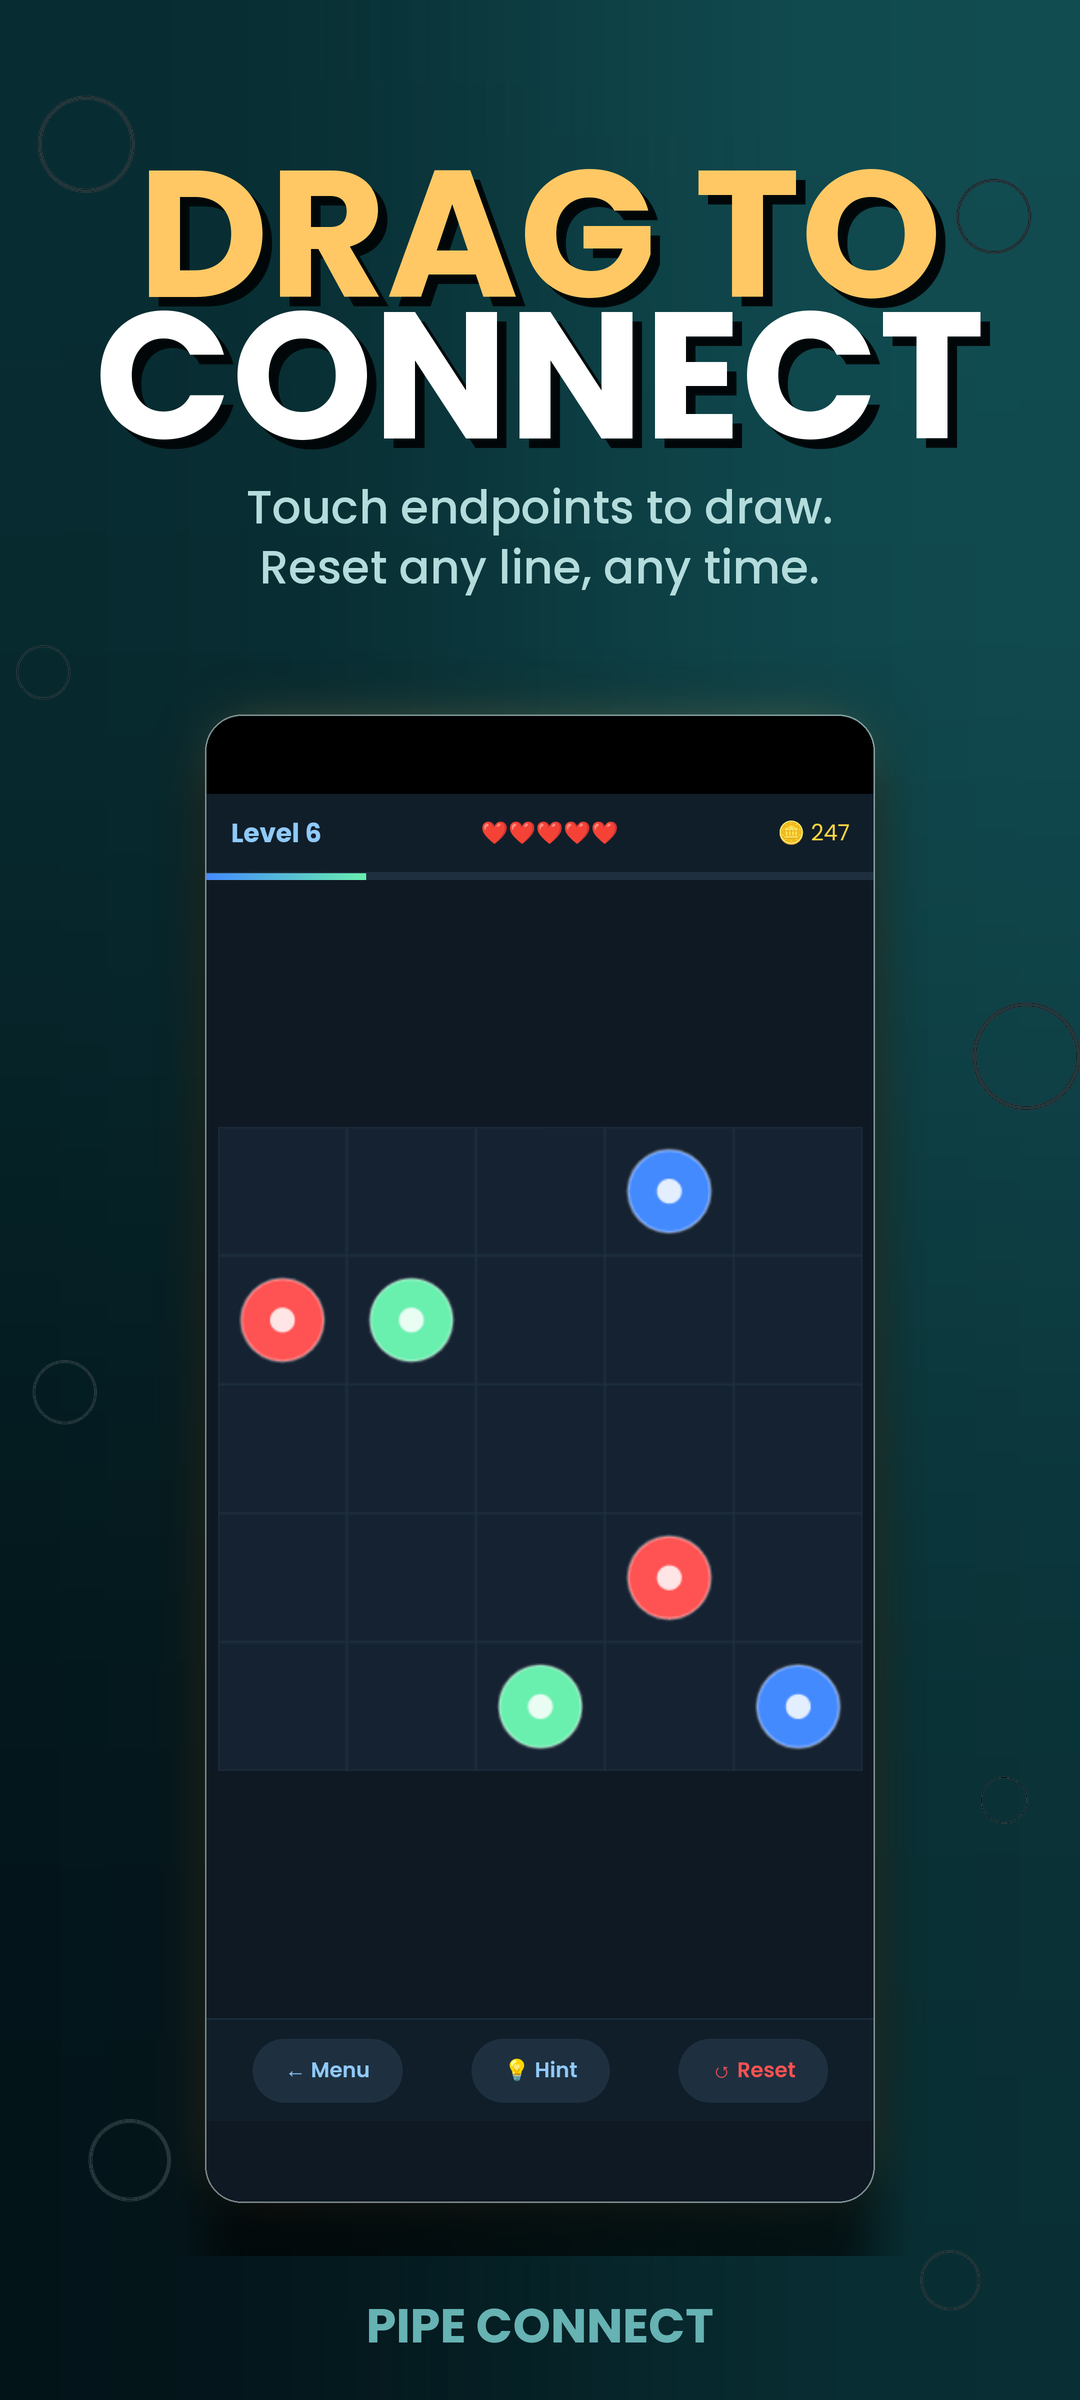
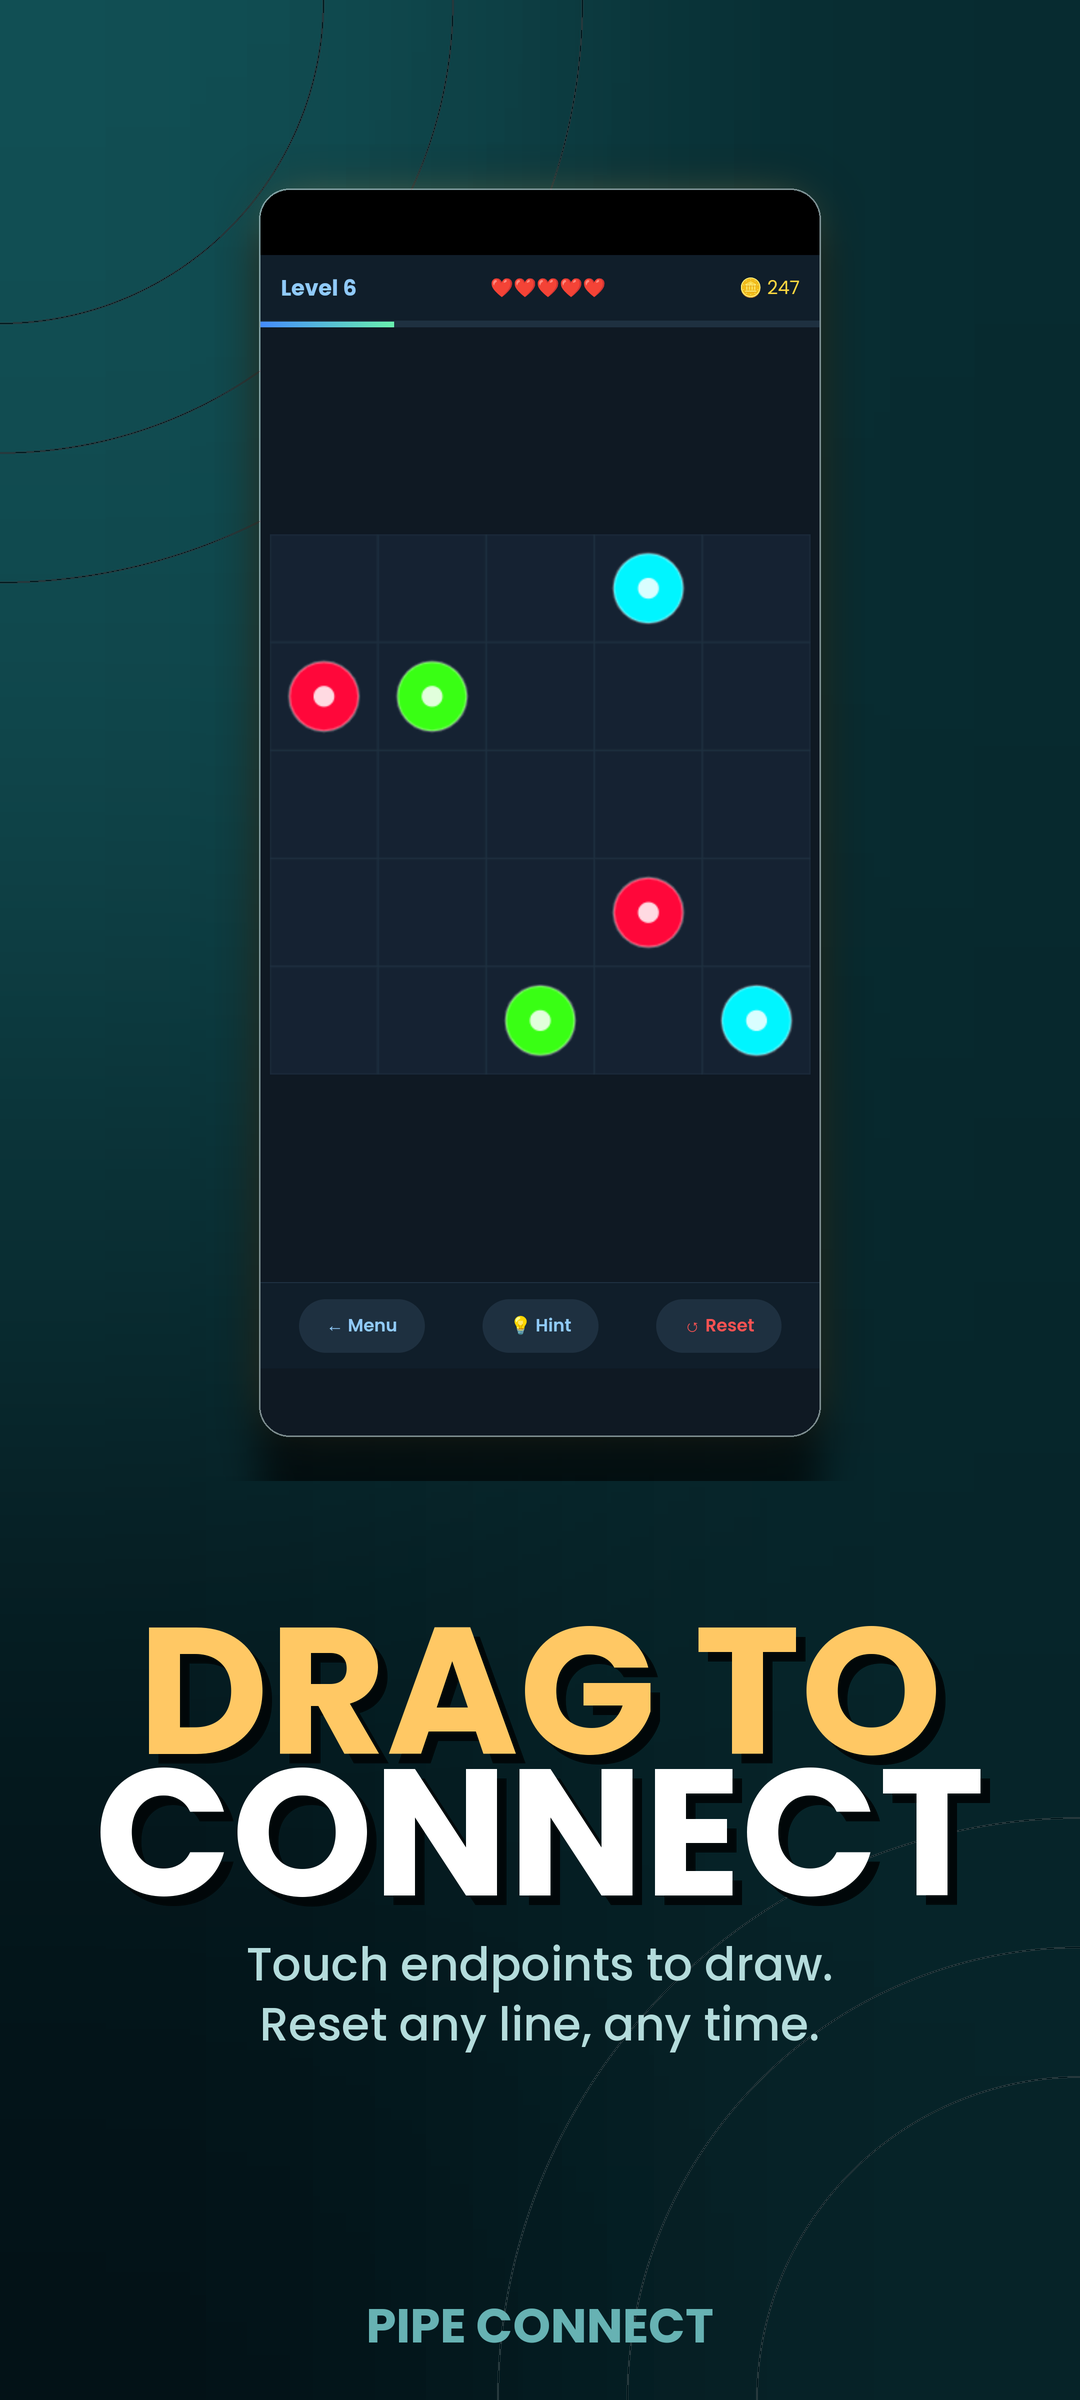
PipeConnect: ship-ready — 3 code blockers fixed + 6 screenshots/surface
Code fixes (3 pre_publish_check blockers cleared):
- Route weekly_pass through SUBS billing via SUBSCRIPTION_PRODUCTS set
  (was hitting INAPP path → purchase sheet never opened)
- Add Restore Purchases + Privacy Policy rows in Settings, with
  restorePurchases/openUrl @JavascriptInterface methods in NativeBridge
- Rename requestInterstitial → safeShowInterstitial so the existing
  levelsSinceInterstitial%3 gate is recognized by check_interstitial_cadence

Screenshots — 6 distinct slots per surface (phone, tablet_7, tablet_10)
per new 2026-05-25 portfolio rule. Drop forbidden phone menu shot;
rewrite taps config to populate all 18 slots with theme variety
(Classic / Neon / Pastel / Ocean). Refresh headlines for every slot.

Bump versionCode 12 → 13, versionName 1.7.2 → 1.7.3. Build clean
release AAB signed with PipeConnect keystore (SHA1 9A:DA:7D:B4:…).

Docs + enforcement:
- CLAUDE.md: move UnblockPuzzle to "In Play review", PipeConnect to sole
  ship-prep entry, memorialize 6-shots-per-surface rule
- check_screenshot_completeness: REQUIRED_MIN 4 → 6; below-standard
  blocks pre-ship, warns on shipped (already-shipped apps grandfathered)

diff --git a/PipeConnect/android/app/src/main/assets/game.html b/PipeConnect/android/app/src/main/assets/game.html
@@ -236,6 +236,14 @@ body{background:#0f1923;color:#fff;font-family:'Poppins',sans-serif;overflow:hid
       <span class="settings-label">🎨 Pipe Theme</span>
       <button onclick="showScreen('themes')" id="themeBtn" style="background:rgba(68,138,255,0.12);border:1px solid rgba(68,138,255,0.3);border-radius:8px;padding:6px 14px;color:#448aff;font-size:13px;font-weight:600;cursor:pointer">Classic</button>
     </div>
+    <div class="settings-item">
+      <span class="settings-label">🔁 Restore Purchases</span>
+      <button class="shop-item-btn" onclick="restorePurchases()">Restore</button>
+    </div>
+    <div class="settings-item">
+      <span class="settings-label">📄 Privacy Policy</span>
+      <button class="shop-item-btn" onclick="openPrivacyPolicy()">View</button>
+    </div>
     <div class="settings-item" style="justify-content:center;">
       <span style="color:#37474f;font-size:0.75rem;">Pipe Connect v1.0 • com.pegasusgames.pipeconnect</span>
     </div>
@@ -1046,7 +1054,7 @@ function requestRewardedAd(type){
   }
 }
 
-function requestInterstitial(){
+function safeShowInterstitial(){
   if(save.removeAds)return;
   if(window.Android){
     window.Android.showInterstitial();
@@ -1450,7 +1458,7 @@ function checkLevelComplete(){
   }
   // Interstitial every 3 levels
   interstitialCounter++;
-  if(interstitialCounter%3===0)requestInterstitial();
+  if(interstitialCounter%3===0)safeShowInterstitial();
   // Show overlay
   const starsStr='★'.repeat(stars)+'☆'.repeat(3-stars);
   document.getElementById('complete-stars').textContent=starsStr;
@@ -1583,6 +1591,22 @@ setTimeout(()=>{
 // SETTINGS
 // ============================================================
 function confirmReset(){showOverlay('overlay-confirm-reset');}
+
+function restorePurchases(){
+  if(window.Android && typeof window.Android.restorePurchases === 'function'){
+    try { window.Android.restorePurchases(); } catch(e) {}
+    showToast && showToast('Restoring purchases…');
+  }
+}
+
+function openPrivacyPolicy(){
+  const url='https://pegasusgames-creator.github.io/privacy.html';
+  if(window.Android && typeof window.Android.openUrl === 'function'){
+    try { window.Android.openUrl(url); } catch(e) { window.open(url,'_blank'); }
+  } else {
+    window.open(url,'_blank');
+  }
+}
 
 function doResetAll(){
   localStorage.removeItem(SAVE_KEY);

diff --git a/PipeConnect/android/app/src/main/java/com/pegasusgames/pipeconnect/MainActivity.java b/PipeConnect/android/app/src/main/java/com/pegasusgames/pipeconnect/MainActivity.java
@@ -86,6 +86,13 @@ public class MainActivity extends Activity {
         "season_pass_monthly", "starter_pack", "unlimited_lives_1h",
         "unlimited_lives_forever", "weekly_pass"
     ));
+
+    // Subscription SKUs — routed through launchSubscription(), never the
+    // one-time INAPP flow.
+    private static final Set<String> SUBSCRIPTION_PRODUCTS = new HashSet<>(Arrays.asList(
+        "season_pass_monthly", "weekly_pass"
+    ));
+
     // SKUs that are CONSUMABLE — must be consumed via consumeAsync after each
     // purchase, otherwise the user can buy once and never re-buy. Anything in
     // VALID_PRODUCTS but NOT in this set is non-consumable / subscription and
@@ -374,7 +381,7 @@ public class MainActivity extends Activity {
 
     private void launchPurchase(String productId) {
         if (!VALID_PRODUCTS.contains(productId)) return;
-        if ("season_pass_monthly".equals(productId)) { launchSubscription(productId); return; }
+        if (SUBSCRIPTION_PRODUCTS.contains(productId)) { launchSubscription(productId); return; }
         billingClient.queryProductDetailsAsync(
             QueryProductDetailsParams.newBuilder().setProductList(Arrays.asList(
                 QueryProductDetailsParams.Product.newBuilder()
@@ -472,6 +479,8 @@ public class MainActivity extends Activity {
         @JavascriptInterface public void hideBannerAd()                  { hideBanner(); }
         @JavascriptInterface public void showBannerAd()                  { showBanner(); }
         @JavascriptInterface public void log(String msg)                 { /* disabled in release */ }
+        @JavascriptInterface public void restorePurchases()              { MainActivity.this.restorePurchases(); }
+        @JavascriptInterface public void openUrl(String url)             { try { startActivity(new android.content.Intent(android.content.Intent.ACTION_VIEW, android.net.Uri.parse(url))); } catch (Exception e) {} }
 
         @JavascriptInterface
         public void scheduleNotification(String title, String body, long delayMs) {

diff --git a/scripts/pre_publish_check.py b/scripts/pre_publish_check.py
@@ -1629,11 +1629,10 @@ def check_screenshot_completeness(apps):
     """
     blocking = []
     warnings = []
-    REQUIRED_MIN = 4  # Pegasus pragmatic floor; Play Console minimum is 2.
-                      # Originally 7 (Pegasus ideal) but icon-row taps
-                      # fail in the capture-script pipeline for some apps
-                      # (May 2026 Puzzle2048 audit) — accepting 4 as floor
-                      # while keeping 7 as the aspirational target.
+    REQUIRED_MIN = 6  # Pegasus standard: 6 distinct screenshots per surface
+                      # (phone + tablet_7 + tablet_10). Set by user policy
+                      # 2026-05-25 — applies to every new app. Already-shipped
+                      # apps get a warning (grandfathered); pre-ship gets blocked.
 
     for app in apps:
         if not os.path.isdir(os.path.join(BASE, app, "android")):
@@ -1663,16 +1662,11 @@ def check_screenshot_completeness(apps):
             wrapped = [f for f in os.listdir(set_dir)
                        if f.endswith(".png") and not f.startswith(".")
                        and f[0:2].isdigit()]
-            if len(wrapped) < 2:
-                msg = (f"{app}: {set_name}/ has only {len(wrapped)} wrapped "
-                       f"screenshot(s). Play Console requires ≥2; Pegasus "
-                       f"standard is 7.")
+            if len(wrapped) < REQUIRED_MIN:
+                msg = (f"{app}: {set_name}/ has {len(wrapped)} wrapped "
+                       f"screenshot(s). Pegasus standard is "
+                       f"{REQUIRED_MIN}/surface (Play Console minimum is 2).")
                 (warnings if is_shipped else blocking).append(msg)
-            elif len(wrapped) < REQUIRED_MIN:
-                warnings.append(
-                    f"{app}: {set_name}/ has {len(wrapped)} wrapped "
-                    f"screenshots (Pegasus standard is {REQUIRED_MIN}). "
-                    f"Below standard but above Play Console minimum.")
 
     return blocking, warnings
 

diff --git a/CLAUDE.md b/CLAUDE.md
@@ -181,9 +181,9 @@ identical to every other app — only `keyAlias=upload` (vs per-app
 │   ├── feature_graphic_1024x500.png    # 1024×500, no transparency
 │   ├── icon_1024_appstore.png          # 1024×1024, no alpha
 │   └── screenshots/
-│       ├── phone/      raw/ + 01.png...07.png  # 1080×2400
-│       ├── tablet_7/   raw/ + wrapped          # 1200×1920
-│       ├── tablet_10/  raw/ + wrapped          # 1800×2560
+│       ├── phone/      raw/ + 01.png..06.png   # 1080×2400 · 6 distinct
+│       ├── tablet_7/   raw/ + 01.png..06.png   # 1200×1920 · 6 distinct
+│       ├── tablet_10/  raw/ + 01.png..06.png   # 1800×2560 · 6 distinct
 │       └── iphone_6_9/                          # 1320×2868 (Apple req.)
 ├── test/
 │   ├── seed_screenshot_state.js        # localStorage seed
@@ -497,6 +497,12 @@ advance.
   All 13 locales translated; phone + tablet 7"/10" screenshots.
   `pre_publish_check` clean. Next release for each = bump versionCode,
   rebuild the AAB, upload (see each app's `RELEASE_HANDOFF.md`).
+- **In Play review (1):** **UnblockPuzzle** (v1.1.1, versionCode 7) —
+  uploaded 2026-05-25, awaiting Play review. Code clean,
+  `pre_publish_check` clean (modulo iOS surfaces — user is
+  Android-only), all 13 locales, phone + tablet 7"/10" screenshots
+  showcasing all themes, real AdMob IDs + Play license key wired,
+  solver-validated levels, dedicated keystore.
 - **2026-05-12/13 coin/pass overhaul (portfolio-wide):** coin ladder
   rewritten to the four-tier ladder above (was `coins_small $0.99/100`,
   `coins_large $2.99/500` cheap-anchor). Passes swapped:
@@ -514,22 +520,18 @@ advance.
   left as-is on purpose; **do NOT rework**. Every NEW app must give
   each of the 3 surfaces fully distinct raws + headlines + wrapper
   variants (see `SHIP_GAME.md` Phase 3.6).
-- **In ship prep (2):** PipeConnect (v1.7.2), UnblockPuzzle (v1.0.3).
-  Both have full metadata, all 13 locales, phone + tablet screenshots,
-  the four-tier coin ladder, and dedicated keystores (single-keystore
-  model; no PEPK). Both still carry AdMob test-ID placeholders
+- **In ship prep (1):** **PipeConnect** (v1.7.2). Full metadata, all
+  13 locales, phone + tablet screenshots, four-tier coin ladder,
+  dedicated keystore. Carries AdMob test-ID placeholders
   (`ca-app-pub-3940256099942544`) — those clear only when the user
   does the AdMob setup in `RELEASE_HANDOFF.md` Step 1 (Phase 6), so
   they always show as `pre_publish_check` blockers until upload prep.
-  - **UnblockPuzzle** — code clean as of 2026-05-20: Restore Purchases
-    + Privacy Policy wired into Settings, with `restorePurchases()` /
-    `openUrl()` added to the `MainActivity` JS bridge. Release AAB
-    builds clean. Only the AdMob-placeholder blockers remain — ready
-    for the Phase 6 hand-off + upload.
-  - **PipeConnect** — still has 2 unfixed code blockers: no Restore
-    Purchases control in `game.html`, and interstitials aren't gated
-    by a level/game counter (`check_interstitial_cadence`). Fix both
-    before shipping.
+  As of 2026-05-25 also has 3 unfixed code blockers: `weekly_pass`
+  routed through INAPP not SUBS billing
+  (`check_subscription_routing`), no Restore Purchases control in
+  `game.html` (`check_restore_purchases_ui`), and interstitials aren't
+  gated by a level/game counter (`check_interstitial_cadence`). Fix
+  all three before shipping.
 - **Recently deleted:** BallSortPuzzle (2026-04-30 — too similar to
   WaterSortPuzzle, ~zero downloads); removed from working tree, from
   `app_themes.py` / `dedup_similar_apps.py` / `promo.json`.
@@ -731,6 +733,12 @@ Each line is now enforced by a `pre_publish_check.py` check.
   `optimal` move count MUST come from the solver, never a hand-guess —
   114/150 were wrong. The `puzzle solvability` pre-publish gate
   (`check_unblock_solvable.py`) blocks both failure modes.
+- **Every shipping app MUST have 6 distinct screenshots per device
+  surface** — `phone/`, `tablet_7/`, `tablet_10/` each carry exactly 6
+  wrapped slots with distinct raws + headlines (user policy 2026-05-25;
+  was 4-floor / 7-aspirational before). 6/6/6 is the standard; counts
+  below it block pre-ship apps and warn on already-shipped apps.
+  `check_screenshot_completeness` enforces.
 - **Screenshot headlines MUST match screenshot content.** A "Daily
   Missions" headline over a plain gameplay board is a Play policy red
   flag. `check_screenshot_headline_match` enforces.
